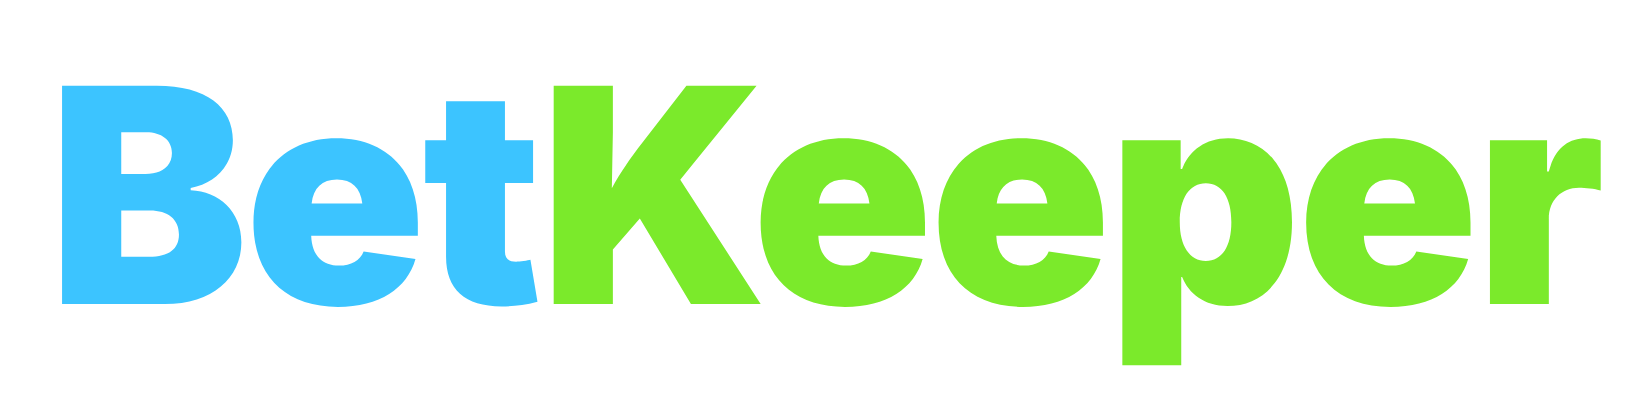
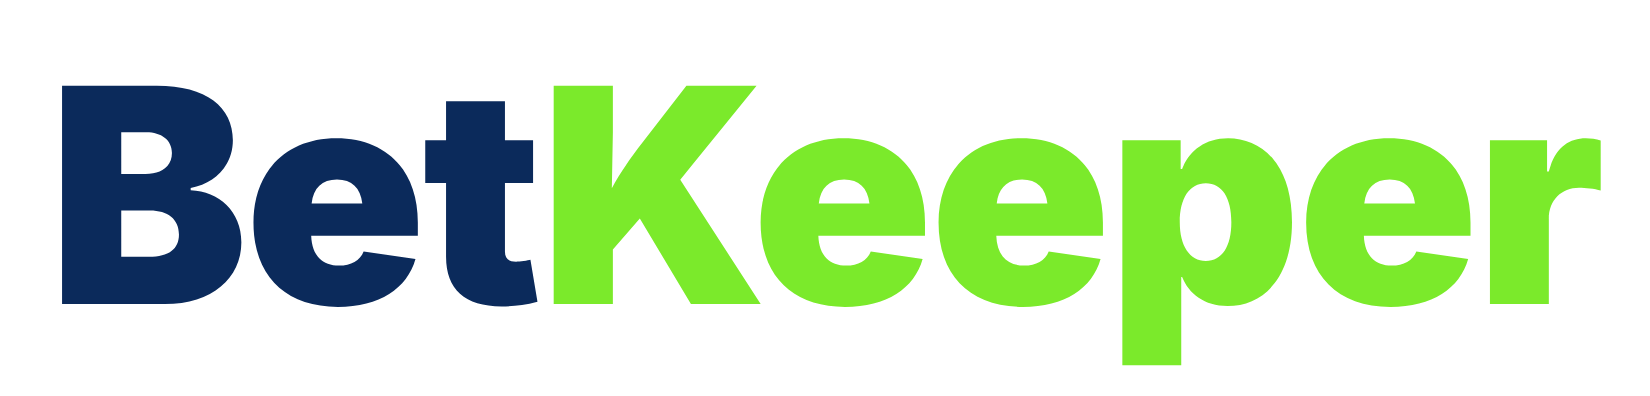
Wordmark: "Bet" in navy (white on dark backgrounds)
- Logo files use navy "Bet" + lime "Keeper" for light backgrounds, with
  *-on-dark versions ("Bet" in white) for dark backgrounds
- The app header uses the white "Bet" since the app background is navy

Claude-Session: https://claude.ai/code/session_01WsUMHT8uwzP9m6FpyeoY5P

Changed region(s): [[0.0309, 0.2121, 0.34, 0.7879]]

diff --git a/brand/lockups.html b/brand/lockups.html
@@ -5,16 +5,23 @@
   .lockup { display: inline-flex; align-items: center; gap: 28px; padding: 24px; }
   .stack { flex-direction: column; gap: 14px; }
   .word { font-family: 'Inter', 'Helvetica Neue', Arial, sans-serif; font-weight: 900; letter-spacing: -2px; line-height: 1; }
-  .bet { color: #3CC4FF; }
+  .bet { color: #0B2A5B; } /* navy: for light backgrounds */
+  .dark .bet { color: #FFFFFF; } /* on dark backgrounds */
   .keeper { color: #7BEA2B; }
 </style></head>
 <body>
-<!-- BetKeeper logo lockups on a transparent background: badge + wordmark ("Bet" sky blue, "Keeper" neon lime). -->
+<!-- BetKeeper logo lockups on a transparent background: badge + wordmark ("Bet" navy, or white in the -on-dark versions; "Keeper" neon lime). -->
 <div id="h" class="lockup"><span id="badge-h"></span><span class="word" style="font-size:150px"><span class="bet">Bet</span><span class="keeper">Keeper</span></span></div>
 <br/>
 <div id="v" class="lockup stack"><span id="badge-v"></span><span class="word" style="font-size:110px"><span class="bet">Bet</span><span class="keeper">Keeper</span></span></div>
 <br/>
 <div id="w" class="lockup"><span class="word" style="font-size:150px"><span class="bet">Bet</span><span class="keeper">Keeper</span></span></div>
+<br/>
+<div id="hd" class="lockup dark"><span id="badge-hd"></span><span class="word" style="font-size:150px"><span class="bet">Bet</span><span class="keeper">Keeper</span></span></div>
+<br/>
+<div id="vd" class="lockup stack dark"><span id="badge-vd"></span><span class="word" style="font-size:110px"><span class="bet">Bet</span><span class="keeper">Keeper</span></span></div>
+<br/>
+<div id="wd" class="lockup dark"><span class="word" style="font-size:150px"><span class="bet">Bet</span><span class="keeper">Keeper</span></span></div>
 <script>
 const shield = (px) => `<svg xmlns="http://www.w3.org/2000/svg" width="${px}" height="${px}" viewBox="18 4 174 202">
   <defs><linearGradient id="g${px}" x1="0" y1="0" x2="0" y2="1"><stop offset="0" stop-color="#A6F55F"/><stop offset="1" stop-color="#7BEA2B"/></linearGradient></defs>
@@ -24,5 +31,7 @@ const shield = (px) => `<svg xmlns="http://www.w3.org/2000/svg" width="${px}" he
 </svg>`;
 document.getElementById('badge-h').innerHTML = shield(190);
 document.getElementById('badge-v').innerHTML = shield(260);
+document.getElementById('badge-hd').innerHTML = shield(190).replace(/g190/g, 'gd190');
+document.getElementById('badge-vd').innerHTML = shield(260).replace(/g260/g, 'gd260');
 </script>
 </body></html>

diff --git a/brand/make-lockups.js b/brand/make-lockups.js
@@ -6,7 +6,7 @@ const path = require('path');
   const p = await b.newPage({ viewport: { width: 1600, height: 1400 }, deviceScaleFactor: 2 });
   await p.goto('file://' + path.join(__dirname, 'lockups.html'));
   await p.waitForTimeout(300);
-  for (const [id, file] of [['h', 'betkeeper-logo-horizontal.png'], ['v', 'betkeeper-logo-stacked.png'], ['w', 'betkeeper-wordmark.png']]) {
+  for (const [id, file] of [['h', 'betkeeper-logo-horizontal.png'], ['v', 'betkeeper-logo-stacked.png'], ['w', 'betkeeper-wordmark.png'], ['hd', 'betkeeper-logo-horizontal-on-dark.png'], ['vd', 'betkeeper-logo-stacked-on-dark.png'], ['wd', 'betkeeper-wordmark-on-dark.png']]) {
     await p.locator('#' + id).screenshot({ path: path.join(__dirname, file), omitBackground: true });
     console.log('wrote brand/' + file);
   }

diff --git a/App.tsx b/App.tsx
@@ -188,7 +188,7 @@ function Main() {
           <View style={styles.brandRow}>
             <Image source={require('./assets/badge.png')} style={styles.badge} />
             <Text style={styles.title}>
-              <Text style={{ color: colors.sky }}>Bet</Text>
+              <Text style={{ color: colors.text }}>Bet</Text>
               <Text style={{ color: colors.brand }}>Keeper</Text>
             </Text>
           </View>

diff --git a/brand/README.md b/brand/README.md
@@ -1,7 +1,7 @@
 # BetKeeper brand
 
 - **Logo:** a sports shield with a keyhole. Neon lime `#7BEA2B` (highlight `#A6F55F`), on deep navy `#061733`. Card blue `#0D2650`.
-- **Wordmark:** "Bet" in sky blue `#3CC4FF`, "Keeper" in neon lime `#7BEA2B`, heavy weight.
+- **Wordmark:** "Bet" in navy `#0B2A5B` (white on dark backgrounds, including the app), "Keeper" in neon lime `#7BEA2B`, heavy weight.
 - **Tagline:** "Bet anywhere. Keep it here."
 - `badge.html` is the vector source (SVG drawn in the page). `node brand/make-icons.js` (needs Playwright) re-renders every app icon size from it.
 - Don't use team names or logos in BetKeeper marketing.
@@ -10,5 +10,6 @@
   - `betkeeper-logo-horizontal.png`: shield + wordmark side by side
   - `betkeeper-logo-stacked.png`: shield over the wordmark
   - `betkeeper-wordmark.png`: the word alone
+  - `*-on-dark.png`: the same with "Bet" in white, for dark backgrounds
   Re-render with `node brand/make-lockups.js` (from `lockups.html`).
 - App icons keep the solid navy square: iOS and Android don't allow transparent app icons.
